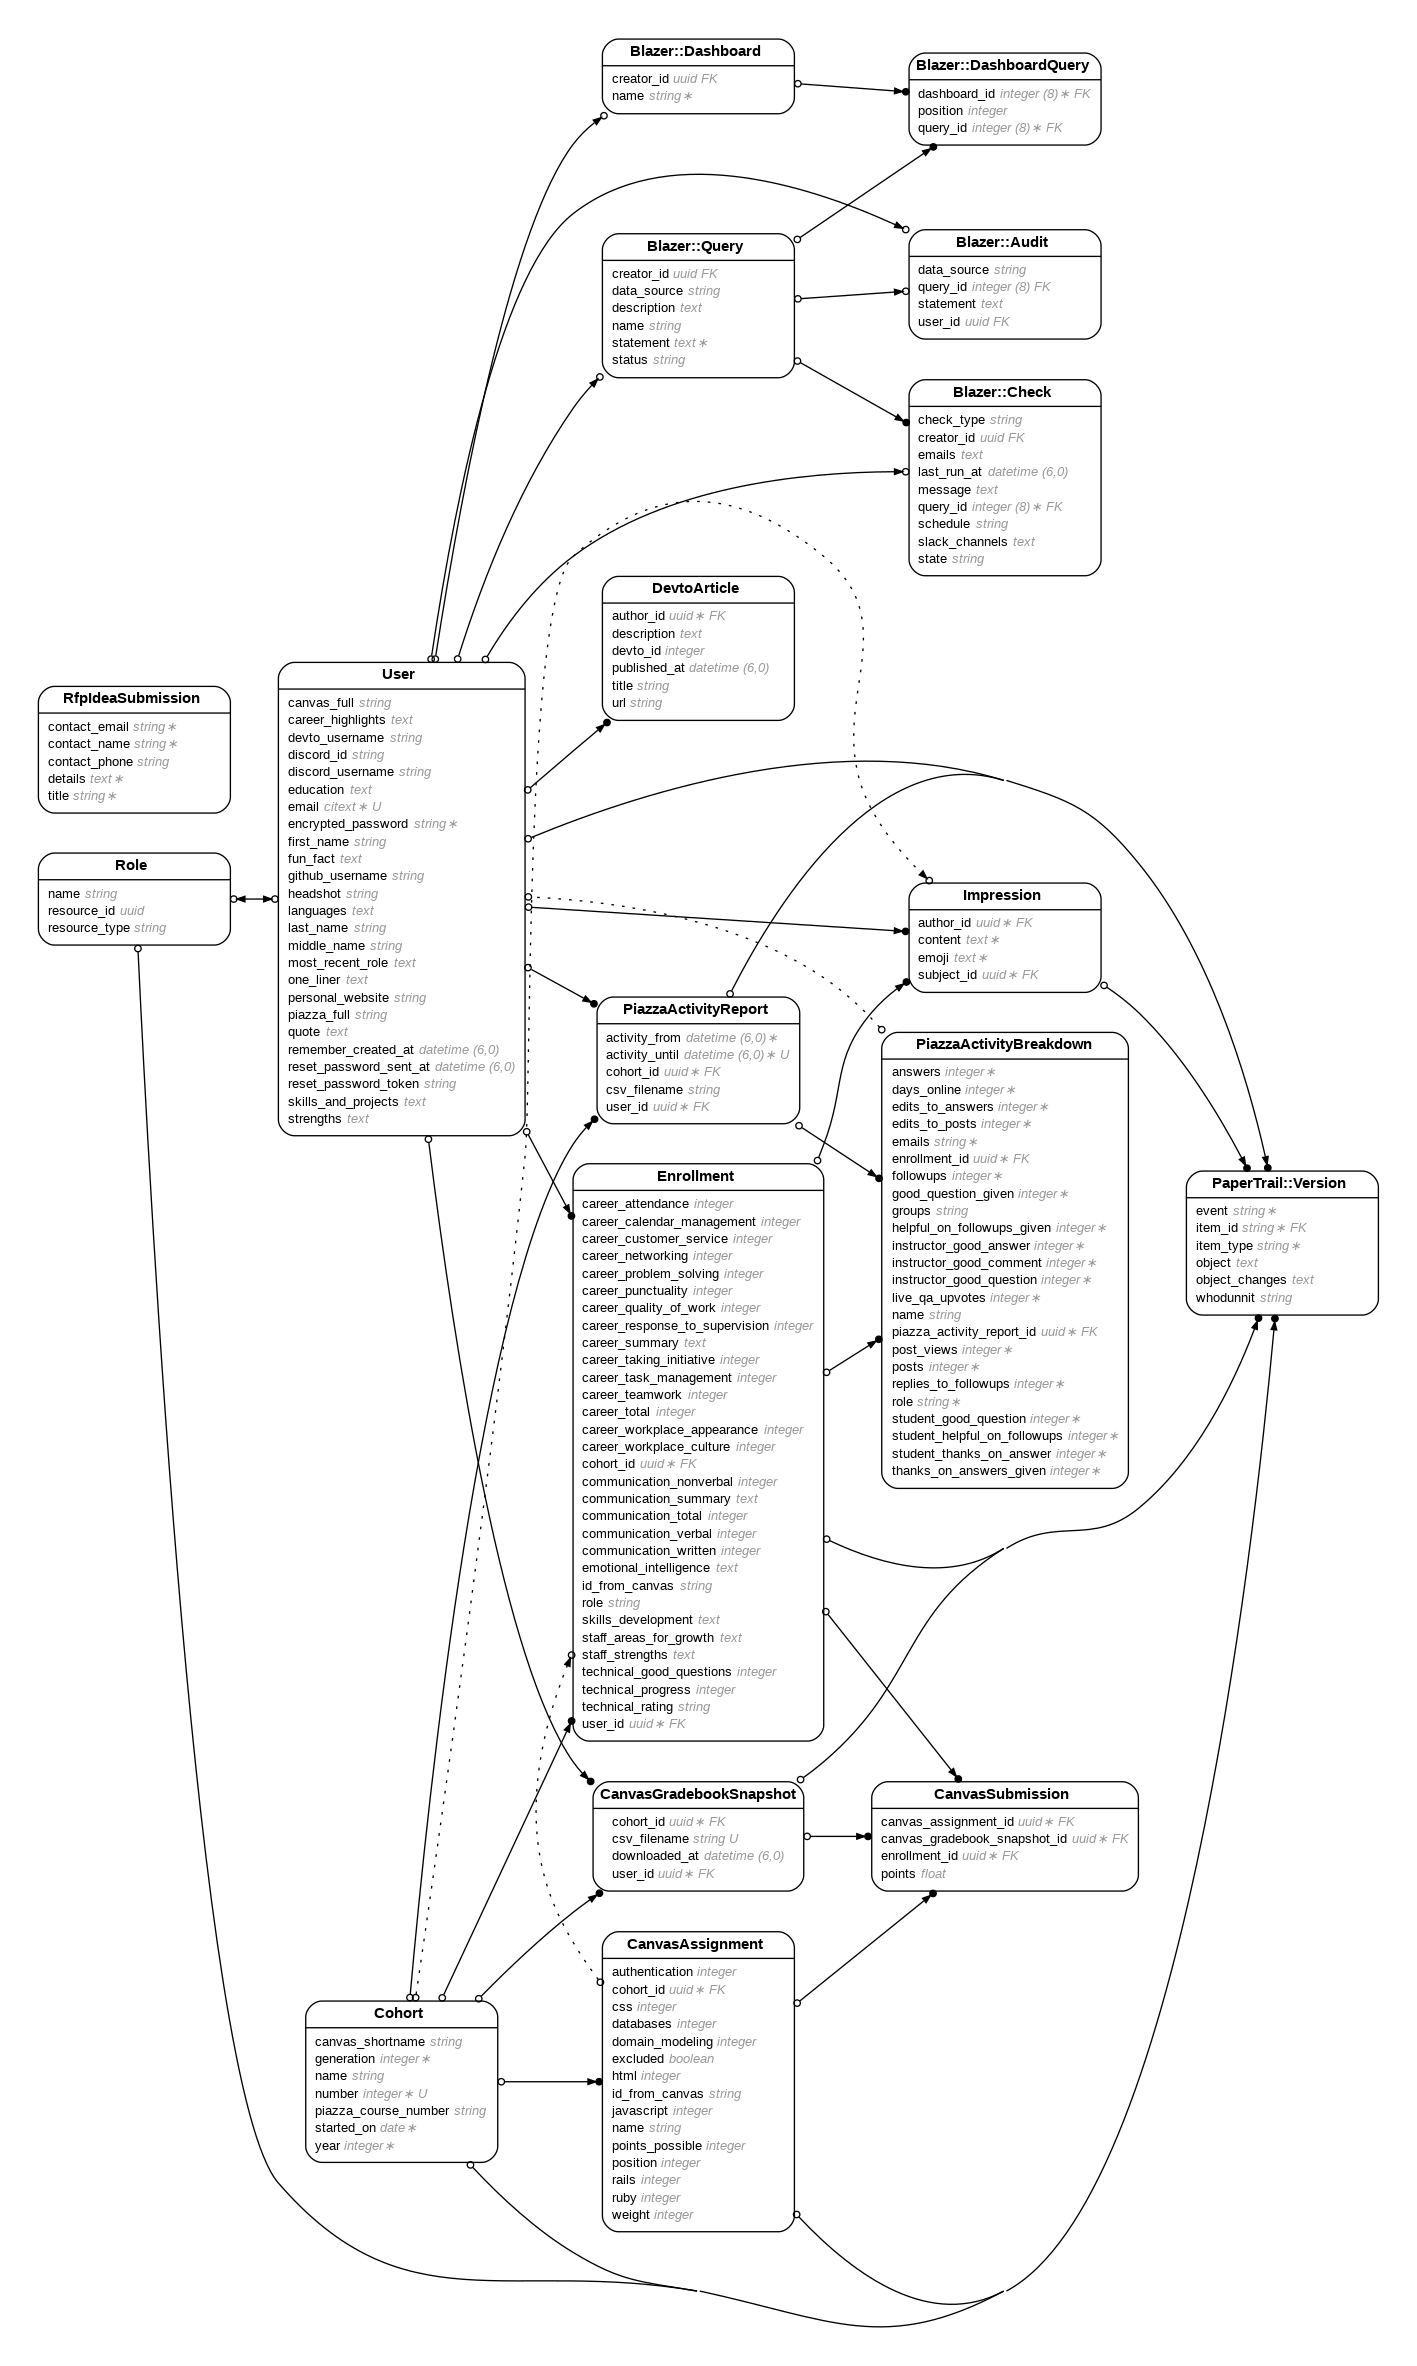
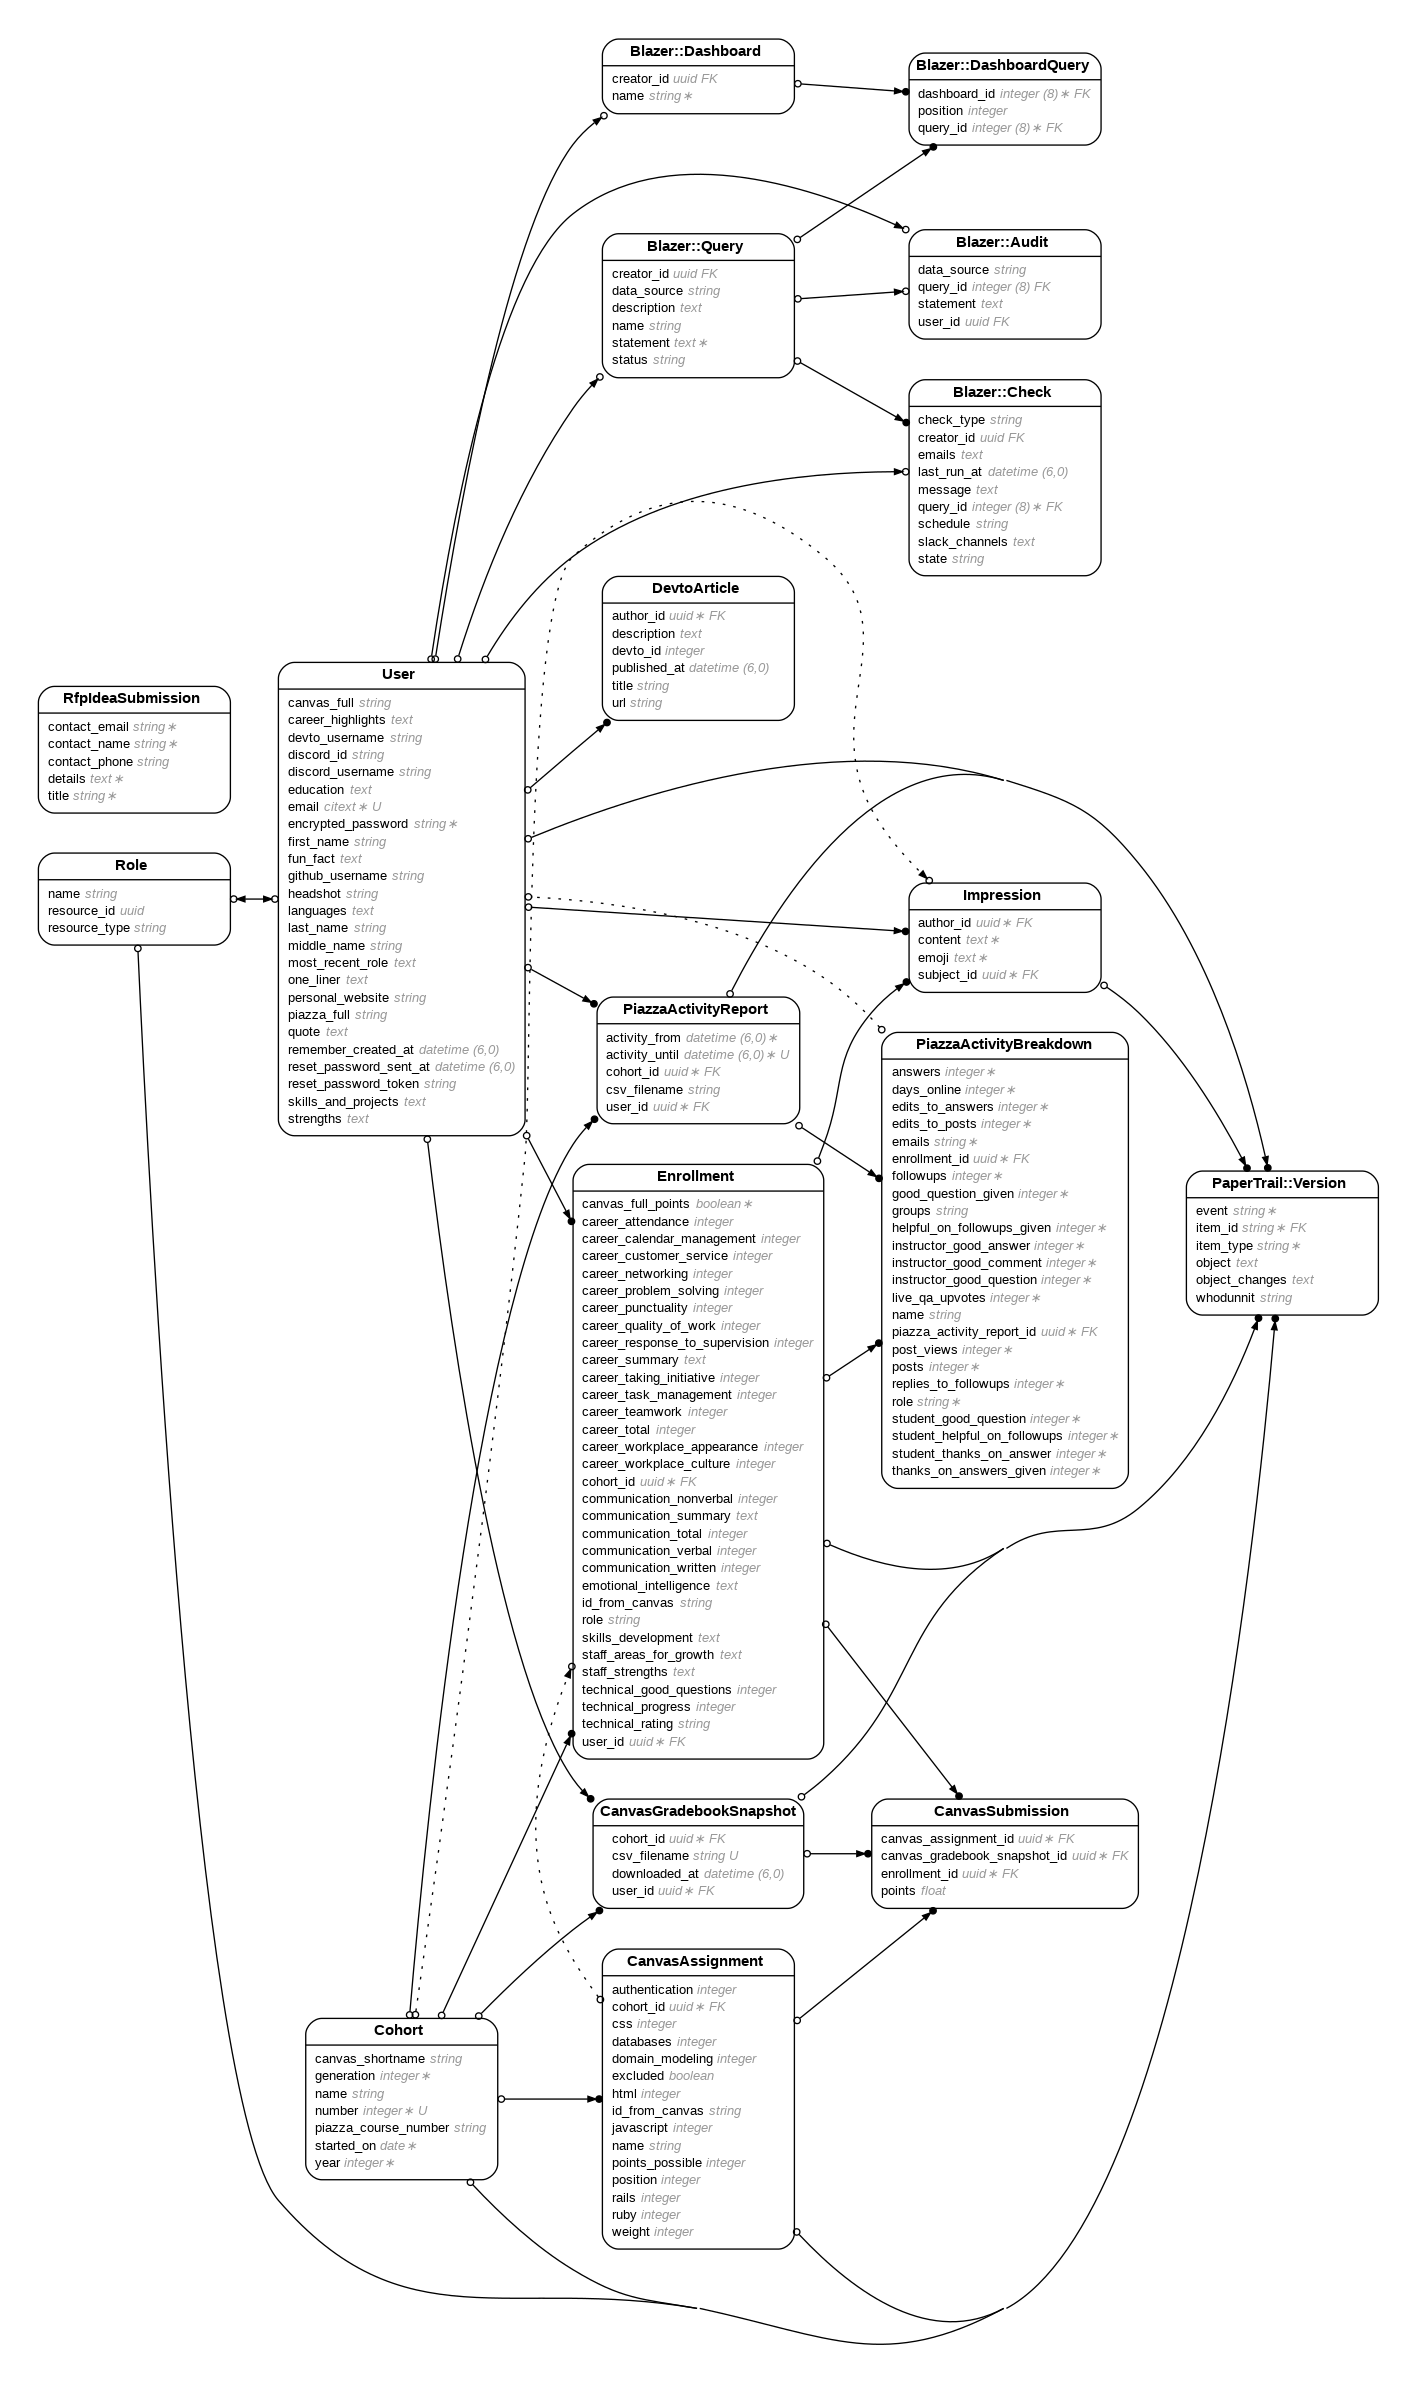
added enrollment.canvas_full_points boolean, moved canvas_full_points logic to canvas gradebook snapshot model,

diff --git a/app/models/enrollment.rb b/app/models/enrollment.rb
@@ -3,6 +3,7 @@
 # Table name: enrollments
 #
 #  id                             :uuid             not null, primary key
+#  canvas_full_points             :boolean          default(FALSE), not null
 #  career_attendance              :integer          default(0)
 #  career_calendar_management     :integer          default(0)
 #  career_customer_service        :integer          default(0)
@@ -50,9 +51,7 @@
 #  fk_rails_...  (user_id => users.id)
 #
 class Enrollment < ApplicationRecord
-  include Ransackable
-  include Endorsable
-  include Adminable
+  include Adminable, Endorsable, Ransackable
 
   has_paper_trail skip: [:created_at, :updated_at]
 
@@ -75,34 +74,6 @@ class Enrollment < ApplicationRecord
     joins(:user)
       .select("enrollments.id, enrollments.cohort_id, users.id AS user_id, users.first_name, users.last_name")
   }
-  scope :recent_gradebook_snapshot, -> {
-    joins(canvas_submissions: :canvas_gradebook_snapshot)
-      .where("canvas_gradebook_snapshots.created_at = (SELECT MAX(created_at) FROM canvas_gradebook_snapshots)")
-  }
-  scope :with_recent_canvas_points, -> {
-    joins(canvas_submissions: :canvas_gradebook_snapshot)
-      .where("canvas_gradebook_snapshots.created_at = (SELECT MAX(created_at) FROM canvas_gradebook_snapshots)")
-      .select("enrollments.id, SUM(canvas_submissions.points) AS total_points")
-      .group("enrollments.id")
-  }
-
-  # Sum of points for recent canvas submissions
-  def total_points
-    canvas_submissions
-      .joins(:canvas_gradebook_snapshot)
-      .where("canvas_gradebook_snapshots.created_at = (SELECT MAX(created_at) FROM canvas_gradebook_snapshots)")
-      .sum(:points)
-  end
-
-  # Sum of points possible for included canvas assignments
-  def total_points_possible
-    cohort.canvas_assignments.included.sum(:points_possible)
-  end
-
-  # Check if the student has completed their training
-  def completed_training?
-    total_points >= total_points_possible
-  end
 
   delegate :education,
     :github_username,

diff --git a/db/schema.rb b/db/schema.rb
@@ -10,7 +10,7 @@
 #
 # It's strongly recommended that you check this file into your version control system.
 
-ActiveRecord::Schema[7.0].define(version: 2024_09_05_182548) do
+ActiveRecord::Schema[7.0].define(version: 2024_09_26_165506) do
   # These are extensions that must be enabled in order to support this database
   enable_extension "citext"
   enable_extension "pgcrypto"
@@ -174,6 +174,7 @@ ActiveRecord::Schema[7.0].define(version: 2024_09_05_182548) do
     t.text "staff_areas_for_growth"
     t.text "skills_development"
     t.string "technical_rating"
+    t.boolean "canvas_full_points", default: false, null: false
     t.index ["cohort_id"], name: "index_enrollments_on_cohort_id"
     t.index ["id_from_canvas"], name: "index_enrollments_on_id_from_canvas"
     t.index ["user_id", "cohort_id"], name: "index_enrollments_on_user_id_and_cohort_id", unique: true

diff --git a/app/models/canvas_gradebook_snapshot.rb b/app/models/canvas_gradebook_snapshot.rb
@@ -40,4 +40,24 @@ class CanvasGradebookSnapshot < ApplicationRecord
   def downloaded_at_humanized
     downloaded_at.strftime("%Y-%m-%d")
   end
+
+  def total_points_for(enrollment)
+    canvas_submissions.where(enrollment: enrollment).sum(:points)
+  end
+
+  def total_points_possible_for(enrollment)
+    enrollment.cohort.canvas_assignments.included.sum(:points_possible)
+  end
+
+  def full_points?(enrollment)
+    total_points_for(enrollment) >= total_points_possible_for(enrollment)
+  end
+
+  def update_canvas_full_points_for_all_enrollments
+    enrollments.each do |enrollment|
+      enrollment.update_column(:canvas_full_points, full_points?(enrollment))
+    end
+  end
+
+  after_save :update_canvas_full_points_for_all_enrollments
 end

diff --git a/spec/models/enrollment_spec.rb b/spec/models/enrollment_spec.rb
@@ -3,6 +3,7 @@
 # Table name: enrollments
 #
 #  id                             :uuid             not null, primary key
+#  canvas_full_points             :boolean          default(FALSE), not null
 #  career_attendance              :integer          default(0)
 #  career_calendar_management     :integer          default(0)
 #  career_customer_service        :integer          default(0)

diff --git a/db/migrate/20240926165506_add_canvas_full_points_to_enrollments.rb b/db/migrate/20240926165506_add_canvas_full_points_to_enrollments.rb
@@ -1,0 +1,5 @@
+class AddCanvasFullPointsToEnrollments < ActiveRecord::Migration[7.0]
+  def change
+    add_column :enrollments, :canvas_full_points, :boolean, default: false, null: false
+  end
+end
